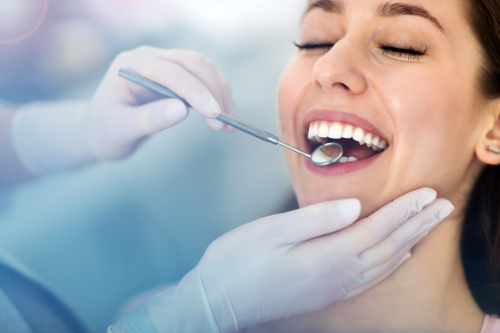
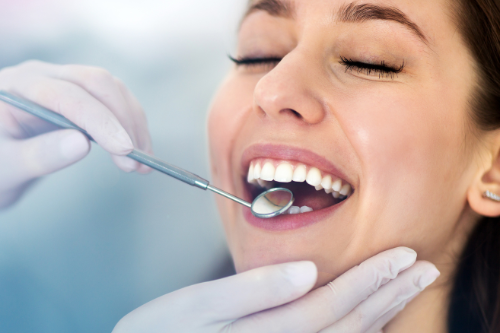
change carrousel into list of cards, update some iamges, small fixes

diff --git a/home.js b/home.js
@@ -49,66 +49,23 @@ const dentalServices  = [
     },
 
 ]
-
 const carousel = document.querySelector('.carousel');
-const mobileCarousel = document.querySelector('.mobile-carousel');
-const prevButton = document.querySelector('.prev');
-const nextButton = document.querySelector('.next');
 
-let currentIndex = 0;
-const itemsPerPage = 4;
+        function showServices() {
+            carousel.innerHTML = '';
+            dentalServices.forEach(service => {
+                const card = document.createElement('div');
+                card.classList.add('card');
+                card.innerHTML = `
+                    <img src="${service.src}" alt="${service.title}">
+                    <h4>${service.title}</h4>
+                    <p>${service.description}</p>
+                `;
+                carousel.appendChild(card);
+            });
+        }
 
-function showServices() {
-    carousel.innerHTML = '';
-    const endIndex = Math.min(currentIndex + itemsPerPage, dentalServices.length);
-    for (let i = currentIndex; i < endIndex; i++) {
-        const service = dentalServices[i];
-        const card = document.createElement('div');
-        card.classList.add('card');
-        card.innerHTML = `
-            <img src="${service.src}" alt="${service.title}">
-            <h4>${service.title}</h4>
-            <p>${service.description}</p>
-        `;
-        carousel.appendChild(card);
-    }
-}
-
-function showNextServices() {
-    currentIndex += itemsPerPage;
-    if (currentIndex >= dentalServices.length) {
-        currentIndex = 0;
-    }
-    showServices();
-}
-
-function showPrevServices() {
-    currentIndex -= itemsPerPage;
-    if (currentIndex < 0) {
-        currentIndex = Math.max(0, dentalServices.length - itemsPerPage);
-    }
-    showServices();
-}
-if(prevButton) { prevButton.addEventListener('click', showPrevServices); }
-if (nextButton) { nextButton.addEventListener('click', showNextServices); }
-
-showServices();
-
-function showServicesMobile() {
-    mobileCarousel.innerHTML = '';
-    dentalServices.forEach(service => {
-        const card = document.createElement('div');
-        card.classList.add('card');
-        card.innerHTML = `
-            <img src="${service.src}" alt="${service.title}">
-            <h4>${service.title}</h4>
-            <p>${service.description}</p>
-        `;
-        mobileCarousel.appendChild(card);
-    });
-}
-
-showServicesMobile();
+        showServices();
 
 const highlightsWrapper = document.querySelector('.highlights-inner');
 const highlights  = [

diff --git a/style.css b/style.css
@@ -80,7 +80,7 @@ header {
     text-decoration: none;
     color: black;
     font-size: 1.1rem;
-    font-weight: 500;
+    font-weight: 600;
     margin: 2.5rem 0;
 }
 .menu .btn {
@@ -176,7 +176,6 @@ header {
     height: calc(50vh - 11rem);
 }
 
-.carousel { display: none; }
 
 .card {
     flex: 0 0 auto; 
@@ -326,10 +325,14 @@ footer a {
 }
 
 @media screen and (min-width: 600px) {
-    .mobile-carousel {
+    .carousel {
         display: flex;
         flex-wrap: wrap;
-    } 
+        transition: transform 0.3s ease-in-out;
+        overflow-x: hidden; /* Hide overflow for non-touch devices */
+        scroll-snap-type: x mandatory;
+        -webkit-overflow-scrolling: touch; /* for smooth scrolling on iOS */
+    }
     .card {
         width: calc( 50% - 40px );
         margin: 10px 0;
@@ -378,15 +381,7 @@ footer a {
     }
     .menu a.underlined { text-decoration: underline;}
     .menu .btn, .menu a:last-child {margin: 0;}
-    .mobile-carousel {display: none;}
-    .carousel {
-        display: flex;
-        flex-wrap: wrap;
-        transition: transform 0.3s ease-in-out;
-        overflow-x: hidden; /* Hide overflow for non-touch devices */
-        scroll-snap-type: x mandatory;
-        -webkit-overflow-scrolling: touch; /* for smooth scrolling on iOS */
-    }
+
     .controls {
         display: block;
     }
@@ -408,6 +403,7 @@ footer a {
         margin: 10px 20px;
     }
     .w-full-mobile { width: auto;}
+    .card img { height: 15rem;}
 }
 
 @media screen and (min-width: 1280px) {
@@ -416,14 +412,15 @@ footer a {
     }
     .hero-text { height: 24rem;}
     .card {
-        width: calc( 25% - 45px );
+        width: calc( 25% - 50px );
         margin-bottom: 20px;
-        min-height: 20rem;
         margin-right: 20px;
     }
     .card:last-child {
         margin-right: 0;
     }
+    .card img { height: 12rem;}
+
     .footer-top {
         flex-direction: row;
         justify-content: space-between;

diff --git a/index.html b/index.html
@@ -42,15 +42,8 @@
             <h1 class="uppercase black">Servicii</h1>
             <h5>Oferim o gama vasta de servicii dupa nevoia fiecarui pacient.</h5>
             <div>
-                <div class="mobile-carousel"></div>
                 <div class="carousel"></div>
-                <div class="services-bottom flex items-center justify-between">
-                    <button class="btn w-full-mobile"><a href="/servicii-tarife">Lista completă servicii și tarife</a></button>
-                    <div class="controls">
-                        <button class="prev"><svg xmlns="http://www.w3.org/2000/svg" viewBox="0 0 320 512"><!--!Font Awesome Free 6.5.1 by @fontawesome - https://fontawesome.com License - https://fontawesome.com/license/free Copyright 2024 Fonticons, Inc.--><path d="M41.4 233.4c-12.5 12.5-12.5 32.8 0 45.3l160 160c12.5 12.5 32.8 12.5 45.3 0s12.5-32.8 0-45.3L109.3 256 246.6 118.6c12.5-12.5 12.5-32.8 0-45.3s-32.8-12.5-45.3 0l-160 160z"/></svg></button>
-                        <button class="next"><svg xmlns="http://www.w3.org/2000/svg" viewBox="0 0 320 512"><!--!Font Awesome Free 6.5.1 by @fontawesome - https://fontawesome.com License - https://fontawesome.com/license/free Copyright 2024 Fonticons, Inc.--><path d="M278.6 233.4c12.5 12.5 12.5 32.8 0 45.3l-160 160c-12.5 12.5-32.8 12.5-45.3 0s-12.5-32.8 0-45.3L210.7 256 73.4 118.6c-12.5-12.5-12.5-32.8 0-45.3s32.8-12.5 45.3 0l160 160z"/></svg></button>
-                    </div>
-                </div>
+                <button class="btn w-full-mobile"><a href="/servicii-tarife">Lista completă servicii și tarife</a></button>
             </div>
         </section>
         
